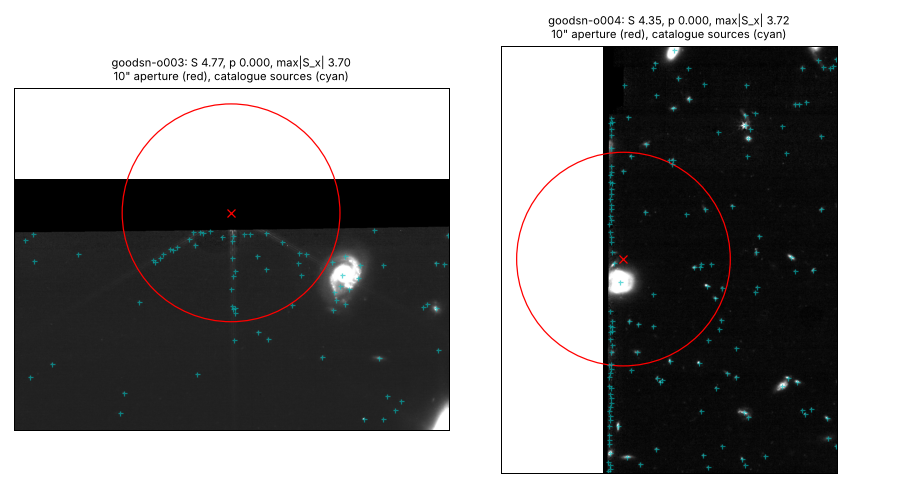
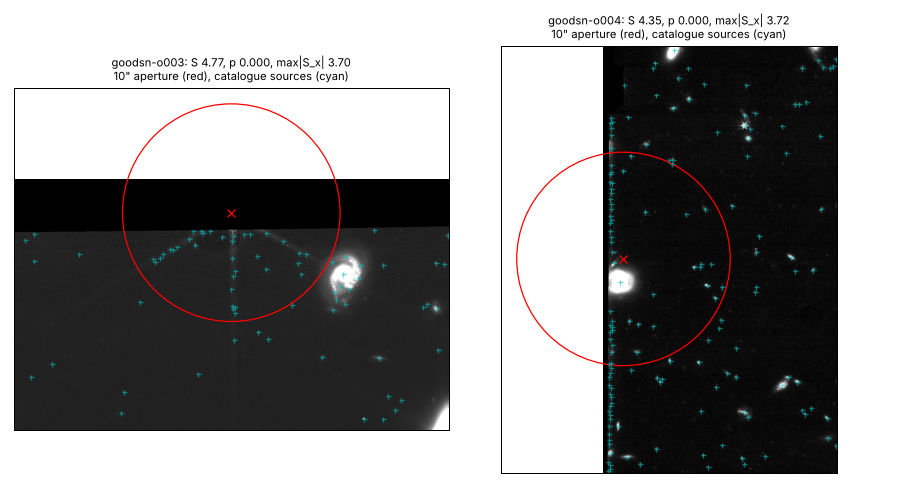
W1 GOODS-N: code-review fixes (sensitivity runs refused by w1_volume, --fixed-r guard, portable sheet paths, aperture from summary, narrower ranges)
Claude-Session: https://claude.ai/code/session_017BFTDUU9WGWmCC542wgMmb

diff --git a/scripts/w1_peak_sheet.py b/scripts/w1_peak_sheet.py
@@ -17,6 +17,7 @@ from pathlib import Path
 import matplotlib
 
 matplotlib.use("Agg")
+import astropy.units as u  # noqa: E402
 import matplotlib.pyplot as plt  # noqa: E402
 import numpy as np  # noqa: E402
 from astropy.coordinates import SkyCoord  # noqa: E402
@@ -27,19 +28,20 @@ from astropy.wcs import WCS  # noqa: E402
 from astropy.wcs.utils import proj_plane_pixel_scales  # noqa: E402
 
 sys.path.insert(0, str(Path(__file__).resolve().parent))
+import inject_shear as ish  # noqa: E402
 import w1_streak_mask as wsm  # noqa: E402
+
+from jwst_anomaly import paths  # noqa: E402
 
 HALF_ARCSEC = 20.0  # cutout half-width (ASSUMPTION, display only)
 
 
 def cutout(uri: str, ra: float, dec: float, half: float = HALF_ARCSEC) -> Cutout2D:
-    """Section of the SCI extension around (ra, dec), read remotely."""
+    """Section of the SCI extension around (ra, dec), read remotely (trimmed at the edges)."""
     with fits.open(uri, use_fsspec=True, fsspec_kwargs={"anon": True}) as hdul:
         hdu = hdul["SCI"]
-        wcs = WCS(hdu.header)
-        scale = float(np.sqrt(abs(np.linalg.det(wcs.pixel_scale_matrix)))) * 3600.0
-        size = int(2 * half / scale)
-        return Cutout2D(hdu.section, SkyCoord(ra, dec, unit="deg"), size, wcs=wcs)
+        pos = SkyCoord(ra, dec, unit="deg")
+        return Cutout2D(hdu.section, pos, 2 * half * u.arcsec, wcs=WCS(hdu.header))
 
 
 def main(argv: list[str] | None = None) -> int:
@@ -52,23 +54,25 @@ def main(argv: list[str] | None = None) -> int:
     for ax, path in zip(axes[0], args.summaries, strict=True):
         s = json.loads(path.read_text())
         ra, dec = s["screen"]["s_max_radec"]
-        c = cutout(wsm.i2d_uri(s["catalog"]), ra, dec)
+        rel = ish.field_spec(s["field"])["catalog"]  # the stored path is machine-specific
+        c = cutout(wsm.i2d_uri(rel), ra, dec)
         img = np.nan_to_num(np.asarray(c.data, float))
         lo, hi = np.percentile(img, [5, 99.5])
         ax.imshow(img, origin="lower", cmap="gray", vmin=lo, vmax=hi)
-        cat = Table.read(s["catalog"])
+        cat = Table.read(paths.data_root() / rel)
         sky = cat["sky_centroid"]
         x, y = c.wcs.world_to_pixel(sky)
         inside = (x > 0) & (y > 0) & (x < img.shape[1]) & (y < img.shape[0])
         ax.plot(x[inside], y[inside], "c+", ms=4, alpha=0.6)
         px, py = c.wcs.world_to_pixel(SkyCoord(ra, dec, unit="deg"))
         scale = float(np.mean(proj_plane_pixel_scales(c.wcs))) * 3600.0  # cutouts trim at edges
-        ax.add_patch(plt.Circle((px, py), 10.0 / scale, fill=False, color="r"))
+        r_ap = float(s["assumptions"]["screen"]["aperture_arcsec"])
+        ax.add_patch(plt.Circle((px, py), r_ap / scale, fill=False, color="r"))
         ax.plot(px, py, "rx")
         sc = s["screen"]
         ax.set_title(
             f"{s['field']}: S {sc['s_max']:.2f}, p {sc['p_random_max']:.3f}, "
-            f'max|S_x| {sc["b_max"]:.2f}\n10" aperture (red), catalogue sources (cyan)',
+            f'max|S_x| {sc["b_max"]:.2f}\n{r_ap:g}" aperture (red), catalogue sources (cyan)',
             fontsize=9,
         )
         ax.set_xticks([])

diff --git a/scripts/inject_shear.py b/scripts/inject_shear.py
@@ -219,8 +219,10 @@ def fixed_responsivity(name: str, spec: dict, lens_z, gate: Path = GATE_R) -> fl
         return None
     if lens_z is None:
         raise ValueError(f"{name} has no lens model; give --lens-z")
-    if rspec != "ncf":
+    if isinstance(rspec, (int, float)):
         return float(rspec)
+    if rspec != "ncf":
+        raise ValueError(f"{name}: responsivity must be 'ncf' or a number, not {rspec!r}")
     res = json.loads(Path(gate).read_text())["gate_r"] if Path(gate).exists() else {}
     if not res.get("passed"):
         raise ValueError(f"{name}: gate R has not passed ({gate}; w1_ncf_gate_r.py)")
@@ -404,8 +406,11 @@ def run_field(name: str, args) -> dict:
     sargs.recover_tol = args.recover_tol
     sargs.psf_chi = complex(*getattr(args, "psf_chi", (0.0, 0.0)))
     r_fixed = fixed_responsivity(name, spec, getattr(args, "lens_z", None))
-    if r_fixed is not None and getattr(args, "fixed_r", None) is not None:
-        r_fixed = float(args.fixed_r)  # sensitivity run (results/w1_shear_goodsn/PLAN.md)
+    r_override = getattr(args, "fixed_r", None)
+    if r_override is not None:  # sensitivity run (results/w1_shear_goodsn/PLAN.md)
+        if r_fixed is None:
+            raise ValueError(f"{name}: --fixed-r applies only to fields without a lens model")
+        r_fixed = float(r_override)
     if r_fixed is not None:  # no lens model: R fixed by gate R, the lens redshift explicit
         sargs.responsivity = r_fixed
     psf = es.psf_sigma_px(shapes)
@@ -474,7 +479,7 @@ def run_field(name: str, args) -> dict:
             "psf_sigma_px": psf,
             "n_streak_vetoed": inj.n_streak,
             # gate P (results/w1_shear_goodsn/PLAN.md): rows in the statistic, and those of them
-            # with a photo-z match
+            # with a photo-z match and a valid z160 (stricter than lensable_mask's finite z_phot)
             "n_used": int(np.sum(inj.use)),
             "n_used_photoz": (
                 int(np.sum(inj.use & np.isfinite(np.asarray(shapes["z160"], float))))
@@ -508,6 +513,8 @@ def run_field(name: str, args) -> dict:
             "spike_stars": len(extra) if extra is not None else None,
             **({} if getattr(args, "lens_z", None) is None else {"w1_lens_z": z_w1}),
             **({} if r_fixed is None else {"fixed_responsivity": r_fixed}),
+            # w1_volume.py refuses summaries of sensitivity runs
+            **({} if r_override is None else {"fixed_r_override": float(r_override)}),
             **(
                 {}
                 if streak is None
@@ -557,6 +564,7 @@ def setting(summary: dict) -> dict:
     a.pop("spike_stars", None)
     a.pop("streak_mask", None)  # per field
     a.pop("fixed_responsivity", None)  # per field kind (D-098)
+    a.pop("fixed_r_override", None)  # sensitivity runs; w1_volume.py refuses them
     a["screen"] = {**LEGACY_SCREEN_OPTIONS, **a["screen"]}
     return a
 

diff --git a/tests/test_inject_shear.py b/tests/test_inject_shear.py
@@ -268,3 +268,21 @@ def test_gate_p_rule():
     assert not ish.passes_gate_p({"n_used": 0, "n_used_photoz": 0})
     assert not ish.passes_gate_p({"n_used": 100, "n_used_photoz": None})
     assert not ish.passes_gate_p({"n_used_before_veto": 100})  # older summaries: no gate data
+
+
+def test_fixed_r_sensitivity_runs_are_refused_by_w1_volume(tmp_path):
+    import json
+
+    _lv = importlib.util.spec_from_file_location("w1_volume", _DIR / "w1_volume.py")
+    wv = importlib.util.module_from_spec(_lv)
+    _lv.loader.exec_module(wv)
+    d = tmp_path / "z0.3" / "f"
+    d.mkdir(parents=True)
+    summ = {"assumptions": {"w1_lens_z": 0.3, "fixed_r_override": 0.231}}
+    (d / "summary.json").write_text(json.dumps(summ))
+    with pytest.raises(SystemExit, match="sensitivity"):
+        wv.main(
+            ["--runs", str(tmp_path), "--fields", "f", "--z", "0.3", "--out", str(tmp_path / "o")]
+        )
+    with pytest.raises(ValueError, match="'ncf' or a number"):
+        ish.fixed_responsivity("x", {"responsivity": "NCF"}, 0.3)

diff --git a/scripts/w1_volume.py b/scripts/w1_volume.py
@@ -70,6 +70,8 @@ def main(argv: list[str] | None = None) -> int:
         for f in args.fields
     }
     for (z, f), s in summ.items():
+        if s["assumptions"].get("fixed_r_override") is not None:
+            raise SystemExit(f"error: {f} at z {z} is a --fixed-r sensitivity run")
         if s["assumptions"].get("w1_lens_z") != z:
             raise SystemExit(f"error: {f} at z {z}: summary has w1_lens_z {s['assumptions']}")
     masses = list(summ[(args.z[0], args.fields[0])]["efficiency"])

diff --git a/TASKS.md b/TASKS.md
@@ -173,7 +173,7 @@ Independent program; takes no resources from MOA-II, S1, E1/D1 or data validatio
      galaxies carry it, above the rotation null; a bright-neighbour veto is not floor-specific); ~~drop edge apertures with < 50 % coverage~~ done 2026-10-17, not adopted: limits move ≤ 1.6 %,
      `results/w1_edge_cut/RESULT.md`); ~~add SMACS 0723 and El Gordo~~ done 2026-10-17, null
      (`results/w1_shear_smacs_elgordo/RESULT.md`); ~~MACS0417, MACS1423, WHL0137~~ done 2026-10-17 (`results/w1_shear_more/RESULT.md`: MACS1423 hit carried by sources on an image stripe; nine-field limits 4.9 × 10³ / 8.2 × 10² / 4.1 × 10² deg⁻²); ~~RXJ2129 and MACS0647~~ done 2026-10-17, null (`results/w1_shear_rxj_m0647/RESULT.md`; MACS0647 R 0.23, nearly blind, top centres on streaks); ~~MACS0717 with photo-z~~ done 2026-10-17 (ASTRODEEP-FF, VizieR; rule not passed, R 0.23, ≤ 9 / 200 recoveries; not in the headline; the low R is unexplained); ~~a calibrated streak veto~~ done 2026-10-17, adopted (`results/w1_streak_veto/RESULT.md`: MACS1423 back in, no field passes; twelve-field limits 4.4 × 10³ / 7.2 × 10² / 3.5 × 10² deg⁻²; next: faint parallel streaks such as the S1063 peak's, fewer false trails on MACS0647); stack S around `radial` (done 2026-10-17 for four fields, `results/w1_stack_radial/RESULT.md`: excess mostly from the defining arcs; residual p 0.027, exploratory; MACS0417 second model: S unchanged on the 7 common centres; injections at the centres done 2026-10-17, `results/w1_stack_radial/inject/RESULT.md`: post hoc noise-aware rule excludes ≥ 1 × 10¹² M☉ at all centres (mass-point addendum), ≥ 8 × 10¹² at half; ≤ 5 × 10¹¹ not excluded; line done) and orphan-pair
-     centres; ~~other lens redshifts → volume density vs Takahashi & Asada~~ done 2026-10-17 (`results/w1_volume/RESULT.md`: eleven fields, Z 0.1–1.5, n₉₅ < 3.65 × 10⁻⁴ h³ Mpc⁻³ at 2 × 10¹³ M☉, 3.6× weaker than T&A; 8.5× / 65× at 8 × 10¹² / 2 × 10¹²; single-plane ASSUMPTION; RXJ2129 out, catalogue 404); ~~blank CANUCS flanking fields~~ done 2026-10-18 (D-098, `results/w1_shear_ncf/RESULT.md`: no lens model, F150W, R 0.425 from gate R; fourteen fields n₉₅ < 2.35 × 10⁻⁴ h³ Mpc⁻³ at 2 × 10¹³ M☉, 2.35× T&A; macs0416-ncf / macs0417-ncf flags on a missed diagonal streak and horizontal stripes, kept out). Next W1 area: ~~a lower findsat_mrt threshold for the NCF streaks~~ failed 2026-10-18 (`results/w1_streak_rowdiag/RESULT.md`: masks identical at 5 / 3 / 2.5; macs0416-ncf is a spike case, macs0417-ncf detector row striping); ~~a field-wide row-segment median veto~~ failed 2026-10-18 on cost (`results/w1_row_veto/RESULT.md`: covers the macs0417-ncf peak but keeps 56–75 % of the rows; a retry needs source footprints masked first), ~~GOODS-N (JADES 1181)~~ done 2026-10-18 (D-099, `results/w1_shear_goodsn/RESULT.md`: four of six pointings pass gate P; o003 / o004 flags on mosaic-edge artefacts, explained by V1 ∪ V2 and kept out; sixteen fields n₉₅ < 1.82 × 10⁻⁴ h³ Mpc⁻³ at 2 × 10¹³ M☉, 1.82× T&A; the gain is R-dependent: R 0.231 keeps 0.21–0.26 of the recoveries). Next: a blank-field R calibration, then PRIMER / CEERS (MAST F200W catalogues + DJA zout);
+     centres; ~~other lens redshifts → volume density vs Takahashi & Asada~~ done 2026-10-17 (`results/w1_volume/RESULT.md`: eleven fields, Z 0.1–1.5, n₉₅ < 3.65 × 10⁻⁴ h³ Mpc⁻³ at 2 × 10¹³ M☉, 3.6× weaker than T&A; 8.5× / 65× at 8 × 10¹² / 2 × 10¹²; single-plane ASSUMPTION; RXJ2129 out, catalogue 404); ~~blank CANUCS flanking fields~~ done 2026-10-18 (D-098, `results/w1_shear_ncf/RESULT.md`: no lens model, F150W, R 0.425 from gate R; fourteen fields n₉₅ < 2.35 × 10⁻⁴ h³ Mpc⁻³ at 2 × 10¹³ M☉, 2.35× T&A; macs0416-ncf / macs0417-ncf flags on a missed diagonal streak and horizontal stripes, kept out). Next W1 area: ~~a lower findsat_mrt threshold for the NCF streaks~~ failed 2026-10-18 (`results/w1_streak_rowdiag/RESULT.md`: masks identical at 5 / 3 / 2.5; macs0416-ncf is a spike case, macs0417-ncf detector row striping); ~~a field-wide row-segment median veto~~ failed 2026-10-18 on cost (`results/w1_row_veto/RESULT.md`: covers the macs0417-ncf peak but keeps 56–75 % of the rows; a retry needs source footprints masked first), ~~GOODS-N (JADES 1181)~~ done 2026-10-18 (D-099, `results/w1_shear_goodsn/RESULT.md`: four of six pointings pass gate P; o003 / o004 flags on mosaic-edge artefacts, explained by V1 ∪ V2 and kept out; sixteen fields n₉₅ < 1.82 × 10⁻⁴ h³ Mpc⁻³ at 2 × 10¹³ M☉, 1.82× T&A; the gain is R-dependent: R 0.231 keeps 0.21–0.26 of the recoveries in the four-pointing totals). Next: a blank-field R calibration, then PRIMER / CEERS (MAST F200W catalogues + DJA zout);
    - W2 / dark deflectors (D-048 clusters, D-051 deep fields: null, limits; D-055: the flanking-field orphan
      excess was a null (e) artefact, no excess under the fixed (e) or the companion-aware (f); D-048 clusters re-run, null): segmentation-map
      adjacency for the same-galaxy and visible-lens rules (the main efficiency losses); pixel-level injections;

diff --git a/results/w1_shear_goodsn/RESULT.md b/results/w1_shear_goodsn/RESULT.md
@@ -70,7 +70,7 @@ The same injections with R = 0.231 (the MACS0647 value) recover:
 | 8 × 10¹² | 152 | 32 |
 | 2 × 10¹³ | 254 | 67 |
 
-That is 0.21–0.26 of the recoveries. **The GOODS-N contribution depends strongly on the assumed R.** R cannot be
+That is 0.21–0.26 of the recoveries in the four-pointing totals, and 0.13–0.33 per pointing and mass (11 cells with a non-zero adopted count; `ratio` in the file). **The GOODS-N contribution depends strongly on the assumed R.** R cannot be
 fitted in a blank field, and program 1181 has no cluster pointing to fit it on (a deviation from D-098's
 same-program rule; D-099).
 
@@ -79,4 +79,5 @@ same-program rule; D-099).
 - The o004/o005 overlap (≈ 0.5 arcmin² of MAST footprint) is double-counted in the headline: less than 1 % of the area.
 - The two eastern pointings are lost to photo-z coverage.
 - The faint unmasked o004 streaks were found by eye only.
-- The summaries' `photoz` paths point to the session scratchpad. The zout is the pinned DJA member.
+- The summaries store absolute `catalog` / `photoz` paths of the session machine; resolve them through `inject_shear.field_spec` and the data root (as `w1_peak_sheet.py` does). The zout is the pinned DJA member.
+- Gate P counts rows with a valid z160 (stricter than the screen's finite z_phot; `inject_shear.py`).

diff --git a/CHANGELOG.md b/CHANGELOG.md
@@ -11,8 +11,8 @@ Newest first. Results, failed approaches and the handoff state; not a diary.
 - **Result (`results/w1_shear_goodsn/RESULT.md`):** sixteen fields (D-098: flagged pointings out), 119.8 arcmin²:
   n₉₅ < 2.46 × 10⁻³ / 4.29 × 10⁻⁴ / 1.82 × 10⁻⁴ h³ Mpc⁻³ at 2 × 10¹² / 8 × 10¹² / 2 × 10¹³ M☉. That is 24.6× / 4.29× /
   1.82× weaker than T&A, down from 30× / 5.4× / 2.35×. Eighteen fields (the plan's rule, not adopted) would give 1.54×.
-- **Caveat:** with R = 0.231 the GOODS-N recoveries fall to 0.21–0.26 of the adopted ones, so the gain depends on
-  the borrowed R.
+- **Caveat:** with R = 0.231 the GOODS-N recoveries fall to 0.21–0.26 of the adopted ones (four-pointing totals;
+  0.13–0.33 per pointing and mass), so the gain depends on the borrowed R.
 - **Handoff:** more blank F200W area with photo-z (PRIMER-UDS / COSMOS, CEERS: MAST catalogues plus DJA zout), or
   calibrate R for blank fields first (the dominant systematic now). A photo-z catalogue covering o009 / o010 would add
   ≈ 20 arcmin².

diff --git a/DECISIONS.md b/DECISIONS.md
@@ -5086,7 +5086,6 @@ confining radiation at a throat is found.
 - **Evidence:** `results/w1_shear_goodsn/RESULT.md`. Sixteen fields: n₉₅ < 1.82 × 10⁻⁴ h³ Mpc⁻³ at 2 × 10¹³ M☉
   (1.82× Takahashi & Asada, from 2.35×); the two flags (o003, o004) sit on mosaic-edge artefacts and are explained
   by V1 ∪ V2 (eighteen fields would give 1.54×). With R = 0.231 the GOODS-N recoveries drop to 0.21–0.26 of the
-  adopted ones.
+  adopted ones (four-pointing totals at Z = 0.3).
 - **Revisit if:** a blank-field R calibration exists (e.g. image simulations or a shear-calibrated catalogue of the
   same mosaics), or a photo-z catalogue covers o009/o010.
-

diff --git a/SOURCES.md b/SOURCES.md
@@ -1491,4 +1491,3 @@ Inputs are pinned by sha256 in `data/manifests/e1_events.ecsv` (4.7 MB in total;
 - Photo-z: DJA v7.3 `gdn-grizli-v7.3-fix.eazypy.zout.fits`, streamed out of `gdn-grizli-v7.3-fix.photoz.tar.gz`
   (pins in `orphan_pairs.DEEP_FIELDS["goodsn-dja"]`; D-051). The F200W `_i2d.fits` SCI extensions were range-read
   for the streak masks and the sheet (not stored).
-
